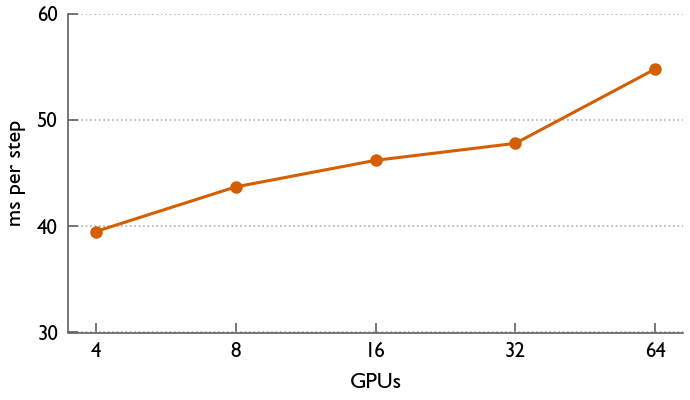
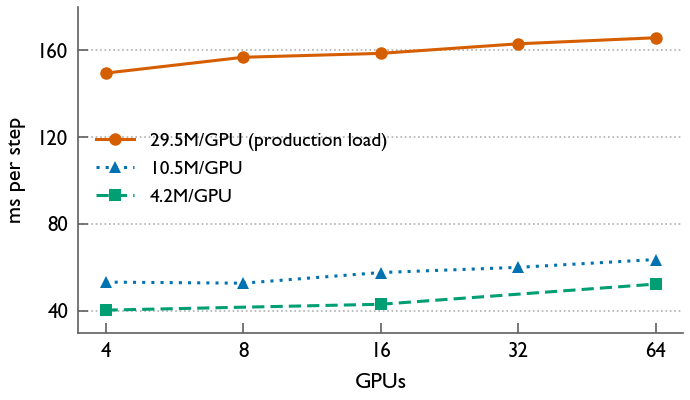
update figs

diff --git a/figs/make_figs.py b/figs/make_figs.py
@@ -35,9 +35,11 @@ def save(fig, name):
 # ----------------------------------------------------------------------------
 # Fig. 1 -- CPU strong scaling ceiling (production case)
 # ----------------------------------------------------------------------------
-cores = [10, 20, 40, 100, 200]
-tstep = [15.764045, 10.816865, 9.508869, 7.111017, 5.085072]
-nodes = [2, 2, 2, 3, 5]
+# 2026-08 rerun on dedicated CPU nodes (2x EPYC 7763, 128 cores/node),
+# 50 full steps, TRUE AVG; runs cpu24p*_563223xx in the case tree.
+cores = [10, 20, 40, 100, 200, 400]
+tstep = [17.424, 12.197, 9.676, 11.419, 7.294, 5.108]
+nodes = [1, 1, 1, 1, 2, 4]
 GPU_T = 0.157
 
 fig, ax = plt.subplots(figsize=(3.45, 2.5))
@@ -45,7 +47,7 @@ ax.set_xscale("log")
 ax.set_yscale("log")
 
 # ideal scaling from the 10-core point
-xs = [10, 200]
+xs = [10, 400]
 ax.plot(xs, [tstep[0] * 10 / x for x in xs], ls=ps.dashes(2), lw=0.8,
         color=LGRAY, zorder=1)
 ax.annotate("ideal", xy=(120, tstep[0] * 10 / 120), color=GRAY, fontsize=7,
@@ -53,12 +55,12 @@ ax.annotate("ideal", xy=(120, tstep[0] * 10 / 120), color=GRAY, fontsize=7,
 
 # CPU curve: one series, marker shape encodes node count
 ax.plot(cores, tstep, lw=1.1, color=VERM, zorder=2)
-marks = {2: ps.MARKERS[0], 3: ps.MARKERS[1], 5: ps.MARKERS[2]}
-for n in (2, 3, 5):
+marks = {1: ps.MARKERS[0], 2: ps.MARKERS[1], 4: ps.MARKERS[2]}
+for n in (1, 2, 4):
     cx = [c for c, m in zip(cores, nodes) if m == n]
     cy = [t for t, m in zip(tstep, nodes) if m == n]
     ax.plot(cx, cy, marks[n], ms=4.5, color=VERM, mew=0, ls="none",
-            zorder=3, label=f"CPU, {n} nodes")
+            zorder=3, label=f"CPU, {n} node" + ("s" if n > 1 else ""))
 
 # GPU reference line
 ax.axhline(GPU_T, color=BLUE, lw=1.2, zorder=2)
@@ -69,19 +71,19 @@ ax.annotate("16$\\times$A100 (4 nodes): 0.157 s", xy=(9.3, GPU_T * 1.22),
 # ax.annotate("knee: 8.51 s @ 40", xy=(40, 8.51), xytext=(52, 14.5),
 #             fontsize=7, color="#333333",
 #             arrowprops=dict(arrowstyle="-", color=GRAY, lw=0.6))
-ax.annotate("best: 5.09 s @ 200", xy=(200, 5.09), xytext=(78, 3.0),
+ax.annotate("best: 5.11 s @ 400", xy=(400, 5.108), xytext=(110, 2.9),
             fontsize=7, color="#333333",
             arrowprops=dict(arrowstyle="-", color=GRAY, lw=0.6))
-ax.annotate("32$\\times$", xy=(238, 0.95), fontsize=8, color="#333333",
+ax.annotate("32$\\times$", xy=(478, 0.95), fontsize=8, color="#333333",
             ha="left")
-ax.annotate("", xy=(230, 0.185), xytext=(230, 4.4),
+ax.annotate("", xy=(460, 0.185), xytext=(460, 4.4),
             arrowprops=dict(arrowstyle="->", color=GRAY, lw=0.7))
 
-ax.set_xticks([10, 20, 40, 100, 200])
-ax.set_xticklabels(["10", "20", "40", "100", "200"])
+ax.set_xticks([10, 20, 40, 100, 200, 400])
+ax.set_xticklabels(["10", "20", "40", "100", "200", "400"])
 ax.set_yticks([0.2, 0.5, 1, 2, 5, 10, 20])
 ax.set_yticklabels(["0.2", "0.5", "1", "2", "5", "10", "20"])
-ax.set_xlim(9, 300)
+ax.set_xlim(9, 620)
 ax.set_ylim(0.11, 20)
 ax.set_xlabel("CPU cores")
 ax.set_ylabel("time per step (s)")
@@ -158,9 +160,19 @@ strong = [
     ("906M",  [16, 32, 64, 128], [0.2377, 0.1313, 0.0831, 0.0783], BLUE),
     ("1.36B", [32, 64, 128],     [0.1875, 0.1081, 0.0839],         GREEN),
 ]
-wg = [4, 8, 16, 32, 64]
-wt = [39.5, 43.7, 46.2, 47.8, 54.8]
-weff = [100.0, 90.3, 85.4, 82.6, 72.0]
+# weak scaling at three per-GPU loads (2026-08 campaign, case-tree
+# paper-baseline binary with the pipelined tridiagonal solve, clean-step
+# means, 40-GB pool homogeneous; chunk=16 at the 64-GPU points).
+# ms/step: 29.5M: 149.4/156.7/158.5/162.9/165.7; 10.5M: 53.2/52.7/57.6/
+# 60.0/63.6; 4.2M: 40.3/-/43.0/-/52.3.
+weak = [
+    ("29.5M/GPU (production load)", [4, 8, 16, 32, 64],
+     [149.4, 156.7, 158.5, 162.9, 165.7], VERM),
+    ("10.5M/GPU", [4, 8, 16, 32, 64],
+     [53.2, 52.7, 57.6, 60.0, 63.6], BLUE),
+    ("4.2M/GPU", [4, 16, 64],
+     [40.3, 43.0, 52.3], GREEN),
+]
 
 # strong scaling, full single column
 fig, a1 = plt.subplots(figsize=(3.45, 2.2))
@@ -184,15 +196,17 @@ save(fig, "fig_scaling")
 # weak scaling, full single column
 fig, a2 = plt.subplots(figsize=(3.45, 2.0))
 a2.set_xscale("log", base=2)
-a2.plot(wg, wt, marker=ps.MARKERS[0], ls="-", lw=1.1, ms=4.5, color=VERM,
-        mew=0)
-a2.set_xticks(wg)
-a2.set_xticklabels([str(g) for g in wg])
+for i, (name, gs, ts, col) in enumerate(weak):
+    a2.plot(gs, ts, marker=ps.MARKERS[i], ls=ps.dashes(i), lw=1.1, ms=4.5,
+            color=col, mew=0, label=name)
+a2.set_xticks([4, 8, 16, 32, 64])
+a2.set_xticklabels(["4", "8", "16", "32", "64"])
 a2.minorticks_off()
-a2.set_ylim(30, 60)
-a2.set_yticks([30, 40, 50, 60])
+a2.set_ylim(30, 180)
+a2.set_yticks([40, 80, 120, 160])
 a2.set_xlabel("GPUs")
 a2.set_ylabel("ms per step")
+a2.legend(loc="center left")
 a2.grid(True, axis="y")
 fig.tight_layout(pad=0.3)
 save(fig, "fig_scaling_weak")
